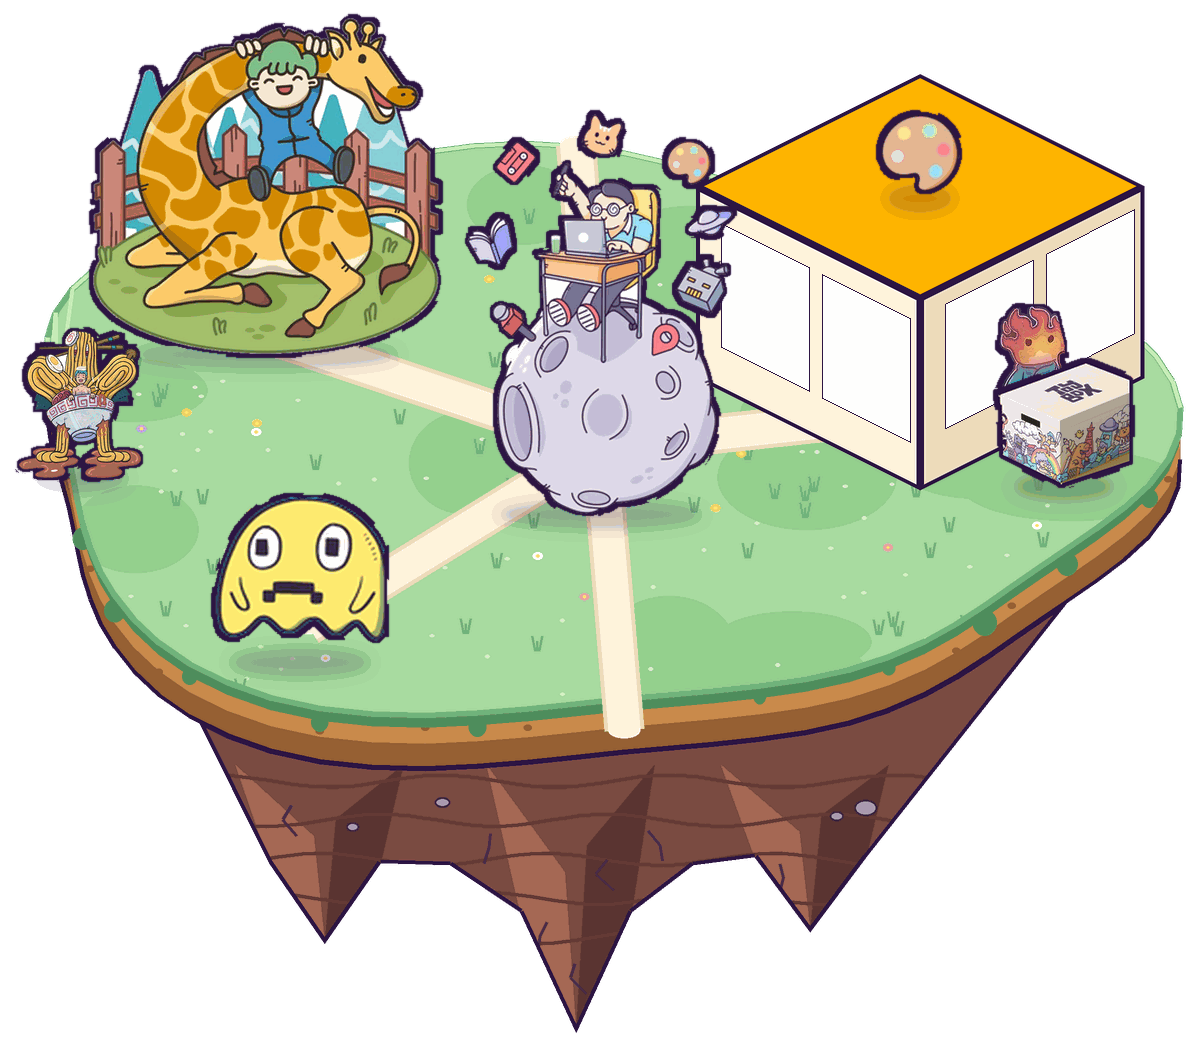
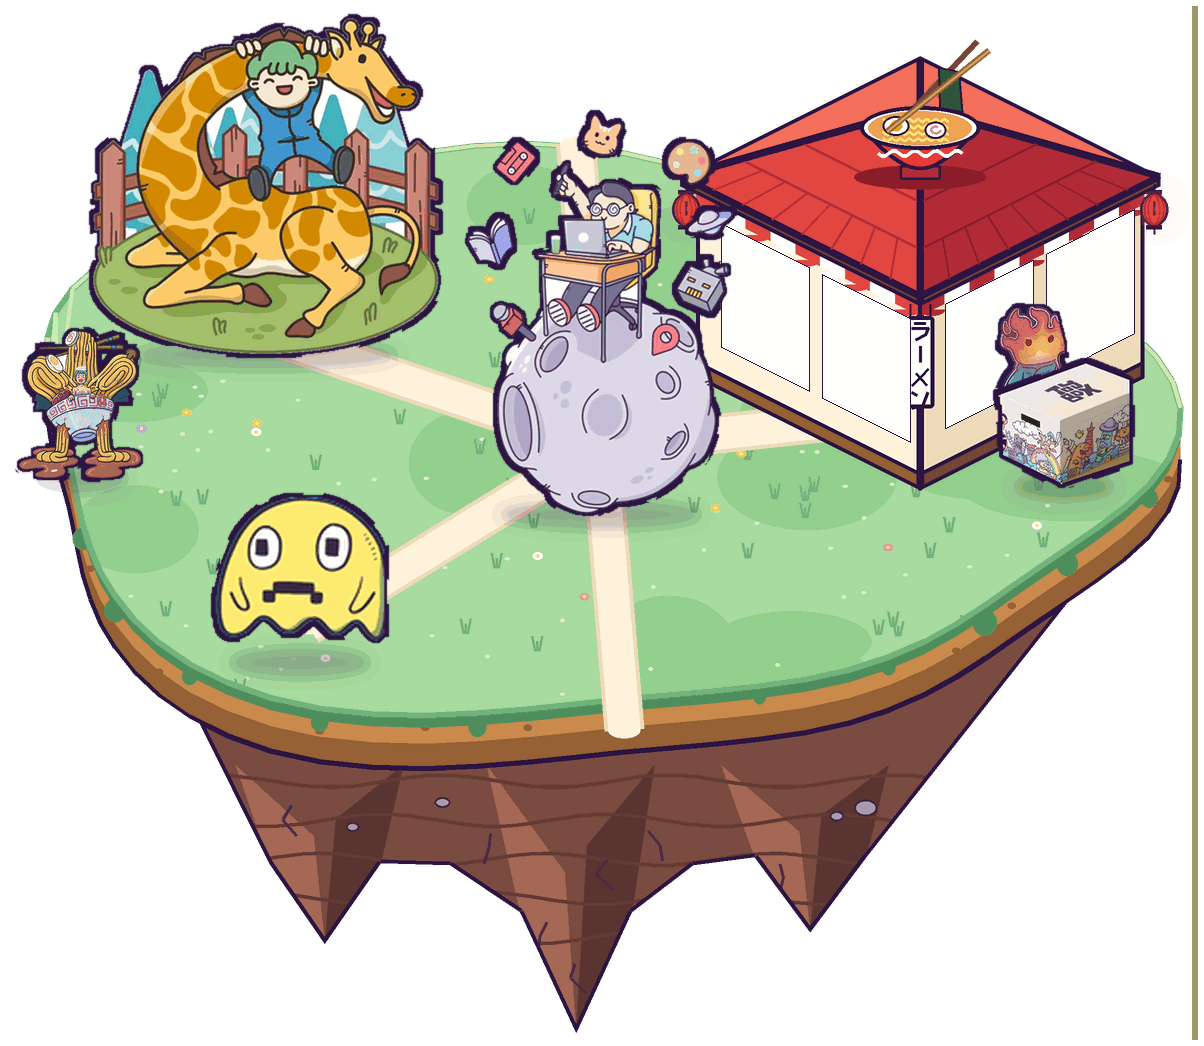
Map: the gallery block becomes Ekky's ramen shop (tiled roof, steaming bowl, awning, lanterns, ラーメン board); generator keeps the clear layer border
Claude-Session: https://claude.ai/code/session_01V9xssjYCJ36JvDWDtGAXJL

diff --git a/assets/village/village.js b/assets/village/village.js
@@ -1,2 +1,2 @@
 // Generated by scripts/village.py from village.json. Do not edit.
-window.VILLAGE={"w": 601, "h": 827, "layers": {"sky": {"src": "assets/village/nebula.png", "x": 0, "y": 0, "w": 601, "h": 827}, "stars": {"src": "assets/village/stars.svg", "x": 0, "y": 0, "w": 601, "h": 827}, "north": {"src": "assets/village/island-north.png", "x": 143, "y": 20, "w": 294, "h": 236}, "mid": {"src": "assets/village/island-mid.png", "x": 5, "y": 158, "w": 599, "h": 523}, "south": {"src": "assets/village/island-south.png", "x": 170, "y": 492, "w": 350, "h": 338}}, "frames": [{"wall": "left", "x": 368.7, "y": 272.8, "w": 38.1, "h": 56, "slope": 0.5}, {"wall": "left", "x": 419.1, "y": 298.0, "w": 38.1, "h": 56, "slope": 0.5}, {"wall": "right", "x": 480.7, "y": 313.2, "w": 38.1, "h": 56, "slope": -0.5}, {"wall": "right", "x": 531.1, "y": 288.0, "w": 38.1, "h": 56, "slope": -0.5}], "places": {"observatory": {"box": [223, 21, 319, 117], "label": [271.0, 129]}, "gallery": {"box": [353, 195, 578, 405], "label": [465, 411]}, "studio": {"box": [51, 167, 224, 335], "label": [137.5, 347]}, "home": {"box": [238, 215, 371, 415], "label": [304.5, 419]}, "doodle": {"box": [109, 397, 201, 489], "label": [155.0, 493]}, "hire": {"box": [264, 501, 401, 673], "label": [332.5, 677]}}, "folk": {"fire-spirit": {"piece": "rpg", "box": [504, 311, 537, 363]}, "noodle-bath": {"piece": "noodles", "box": [14, 323, 75, 397]}, "ufo": {"piece": "doodles", "box": [116, 35, 178, 91]}}, "walkers": [{"name": "car", "piece": "road-trip", "src": "assets/sprites/car.png", "h": 52, "face": -1, "aspect": 1.379, "route": [[233, 357], [159, 333]]}, {"name": "dog", "piece": "doodles", "src": "assets/sprites/dog.png", "h": 70, "face": -1, "aspect": 0.713, "route": [[251, 409], [195, 447]]}, {"name": "plug-hero", "piece": "plug-hero", "src": "assets/sprites/plug-hero.png", "h": 66, "face": -1, "aspect": 0.821, "route": [[365, 377], [433, 367]]}, {"name": "orange-monster", "piece": "doodles", "src": "assets/sprites/orange-monster.png", "h": 44, "face": 1, "aspect": 1.078, "route": [[293, 131], [293, 165], [293, 213]]}, {"name": "crab", "piece": "summertime", "src": "assets/sprites/crab.png", "h": 30, "face": 0, "aspect": 1.442, "route": [[225, 647], [261, 629]]}], "scenery": [], "lantern": [320.4, 617.1], "ufo": {"src": "assets/sprites/ufo.png", "box": [116, 35, 178, 91], "layer": "north"}, "smoke": [[44.5, 341]]};
+window.VILLAGE={"w": 601, "h": 827, "layers": {"sky": {"src": "assets/village/nebula.png", "x": 0, "y": 0, "w": 601, "h": 827}, "stars": {"src": "assets/village/stars.svg", "x": 0, "y": 0, "w": 601, "h": 827}, "north": {"src": "assets/village/island-north.png", "x": 143, "y": 20, "w": 294, "h": 236}, "mid": {"src": "assets/village/island-mid.png", "x": 5, "y": 158, "w": 602, "h": 523}, "south": {"src": "assets/village/island-south.png", "x": 170, "y": 492, "w": 350, "h": 338}}, "frames": [{"wall": "left", "x": 368.7, "y": 272.8, "w": 38.1, "h": 56, "slope": 0.5}, {"wall": "left", "x": 419.1, "y": 298.0, "w": 38.1, "h": 56, "slope": 0.5}, {"wall": "right", "x": 480.7, "y": 313.2, "w": 38.1, "h": 56, "slope": -0.5}, {"wall": "right", "x": 531.1, "y": 288.0, "w": 38.1, "h": 56, "slope": -0.5}], "places": {"observatory": {"box": [223, 21, 319, 117], "label": [271.0, 129]}, "gallery": {"box": [353, 195, 578, 405], "label": [465, 411]}, "studio": {"box": [51, 167, 224, 335], "label": [137.5, 347]}, "home": {"box": [238, 215, 371, 415], "label": [304.5, 419]}, "doodle": {"box": [109, 397, 201, 489], "label": [155.0, 493]}, "hire": {"box": [264, 501, 401, 673], "label": [332.5, 677]}}, "folk": {"fire-spirit": {"piece": "rpg", "box": [504, 311, 537, 363]}, "noodle-bath": {"piece": "noodles", "box": [14, 323, 75, 397]}, "ufo": {"piece": "doodles", "box": [116, 35, 178, 91]}}, "walkers": [{"name": "car", "piece": "road-trip", "src": "assets/sprites/car.png", "h": 52, "face": -1, "aspect": 1.379, "route": [[233, 357], [159, 333]]}, {"name": "dog", "piece": "doodles", "src": "assets/sprites/dog.png", "h": 70, "face": -1, "aspect": 0.713, "route": [[251, 409], [195, 447]]}, {"name": "plug-hero", "piece": "plug-hero", "src": "assets/sprites/plug-hero.png", "h": 66, "face": -1, "aspect": 0.821, "route": [[365, 377], [433, 367]]}, {"name": "orange-monster", "piece": "doodles", "src": "assets/sprites/orange-monster.png", "h": 44, "face": 1, "aspect": 1.078, "route": [[293, 131], [293, 165], [293, 213]]}, {"name": "crab", "piece": "summertime", "src": "assets/sprites/crab.png", "h": 30, "face": 0, "aspect": 1.442, "route": [[225, 647], [261, 629]]}], "scenery": [], "lantern": [320.4, 617.1], "ufo": {"src": "assets/sprites/ufo.png", "box": [116, 35, 178, 91], "layer": "north"}, "smoke": [[44.5, 341], [465, 208]]};

diff --git a/sw.js b/sw.js
@@ -1,6 +1,6 @@
 // Service worker for "Install the app" (B40, FEATURES.pwa). Network first, so a new build shows at once; what was
 // fetched before stays available offline. Same-origin GET requests only. Bump VERSION to drop old caches.
-const VERSION = "ekky-s6-5";
+const VERSION = "ekky-s6-6";
 self.addEventListener("install", e => self.skipWaiting());
 self.addEventListener("activate", e => e.waitUntil(caches.keys().then(keys =>
   Promise.all(keys.filter(k => k !== VERSION).map(k => caches.delete(k)))).then(() => self.clients.claim())));

diff --git a/scripts/village.py b/scripts/village.py
@@ -1,7 +1,7 @@
 """Ekky's Village, first frame (B42 V1): one pre-composited image plus the positions of every place and gallery frame.
 
 Usage: python3 scripts/village.py     writes assets/village/village.png, village.json and village.js
-The ground, sea, paths, plank bridges and the gallery block are plain shapes in Ekky's palette (plan asset rule 4);
+The ground, sea, paths, plank bridges and the gallery's ramen shop are plain shapes in Ekky's palette (plan asset rule 4);
 every character, building and prop is one of his cut-outs from assets/sprites/ (scripts/sprites.py), placed as is.
 The four gallery frames are left empty: js/village.js hangs featuredPick(4) real pieces in them on every visit.
 Coordinates are image pixels (720 x 880, shown at about half size on a phone); y grows downwards.
@@ -282,14 +282,114 @@ def bridge(d, a, b, n):
         d.polygon(P([(x - 13, y), (x, y - 6), (x + 13, y), (x, y + 6)]), fill=PLANK, outline=PLANK_EDGE, width=S)
 
 
-def block(d, cx, cy, hw, hh, height):
-    """The gallery: a plain block with a flat roof; returns the two front walls as (top-left, top-right, ...) corners."""
+RAMEN_RED, RAMEN_RED_D, RAMEN_RED_L = (226, 70, 64), (178, 44, 56), (244, 112, 92)
+WOOD, WOOD_D = (150, 96, 52), (110, 66, 40)
+LANTERN, LANTERN_D = (236, 58, 58), (176, 30, 46)
+
+
+def lerp(a, b, t):
+    return (a[0] + (b[0] - a[0]) * t, a[1] + (b[1] - a[1]) * t)
+
+
+def chochin(d, x, y, r=6):
+    """A red paper lantern hanging from (x, y): cord, ink caps, ribs and a white band (one stroke hints at a word)."""
+    d.line(P([(x, y), (x, y + 3)]), fill=INK, width=S)
+    top, h = y + 3, r * 2.6
+    d.rectangle(P([(x - r * .55, top), (x + r * .55, top + 2)]), fill=INK)
+    d.ellipse(P([(x - r, top + 1.5), (x + r, top + h)]), fill=LANTERN, outline=INK, width=S + 1)
+    for k in (.45, .75):
+        d.arc(P([(x - r * k, top + 2), (x + r * k, top + h - .5)]), 90, 270, fill=LANTERN_D, width=S)
+        d.arc(P([(x - r * k, top + 2), (x + r * k, top + h - .5)]), -90, 90, fill=LANTERN_D, width=S)
+    d.line(P([(x, top + h * .32), (x, top + h * .7)]), fill=INK, width=S + 1)
+    d.rectangle(P([(x - r * .55, top + h - .5), (x + r * .55, top + h + 1.5)]), fill=INK)
+    d.line(P([(x, top + h + 1.5), (x, top + h + 4)]), fill=INK, width=S)
+    return x, top + h / 2
+
+
+def katakana_sign(d, x, y, w, h):
+    """The shop's hanging board, "ラーメン" (ramen) written top to bottom in hand-drawn ink strokes."""
+    d.line(P([(x + 2, y - 6), (x + 2, y)]), fill=INK, width=S)
+    d.line(P([(x + w - 2, y - 6), (x + w - 2, y)]), fill=INK, width=S)
+    d.rounded_rectangle(P([(x, y), (x + w, y + h)]), radius=2 * S, fill=(255, 250, 240), outline=INK, width=2 * S)
+    c, g, u = x + w / 2, h / 4, w * .3    # one glyph per quarter, u = half a glyph's width
+    ln = lambda pts, k=1.6: d.line(P(pts), fill=INK, width=int(S * k), joint="curve")
+    t = y + 2                                                   # ラ
+    ln([(c - u * .7, t + 1.5), (c + u * .7, t + 1.5)])
+    ln([(c - u, t + 4), (c + u, t + 4), (c + u * .6, t + 7.5), (c - u * .5, t + g - 1.5)])
+    t += g                                                      # ー, drawn upright in vertical writing
+    ln([(c, t + 1.5), (c, t + g - 2)])
+    t += g                                                      # メ
+    ln([(c + u, t + 1.5), (c + u * .2, t + 5), (c - u, t + g - 1.5)])
+    ln([(c - u * .5, t + 3.5), (c + u * .8, t + g - 2)])
+    t += g                                                      # ン
+    ln([(c - u, t + 1.5), (c - u * .3, t + 3)])
+    ln([(c - u, t + g - 2), (c + u * .4, t + g - 3.5), (c + u, t + 1.5)])
+
+
+def ramen_bowl(d, cx, cy, rx):
+    """A big ramen bowl, the shop's rooftop sign: red bowl with a white wave, broth, noodles, egg, naruto, nori, chopsticks."""
+    ry = rx * .36
+    d.line(P([(cx - rx * .35, cy - ry * .2), (cx + rx * .95, cy - rx * 1.45)]), fill=WOOD_D, width=3 * S)   # the far chopstick
+    d.polygon(P([(cx + rx * .32, cy - ry * .9), (cx + rx * .72, cy - ry * .7), (cx + rx * .66, cy - rx * .95), (cx + rx * .3, cy - rx * 1.02)]),
+              fill=(46, 84, 60), outline=INK, width=S)                                                      # nori standing in the broth
+    d.ellipse(P([(cx - rx * 1.1, cy + rx * .62), (cx + rx * 1.1, cy + rx * 1.02)]), fill=(140, 30, 44))   # its shadow on the roof
+    d.rounded_rectangle(P([(cx - rx * .34, cy + rx * .62), (cx + rx * .34, cy + rx * .86)]), radius=S, fill=RAMEN_RED_D, outline=INK, width=S + 1)   # the foot
+    body = [(cx - rx + rx * 2 * k / 24, cy + math.sin(math.pi * k / 24) * rx * .7) for k in range(25)]
+    d.polygon(P(body), fill=LANTERN, outline=INK, width=2 * S)
+    wave = [(cx - rx * .7 + rx * 1.4 * k / 24, cy + rx * .42 + math.sin(k * math.pi / 3) * 1.4) for k in range(25)]
+    d.line(P(wave), fill=(255, 250, 240), width=2 * S, joint="curve")
+    d.ellipse(P([(cx - rx, cy - ry), (cx + rx, cy + ry)]), fill=(255, 250, 240), outline=INK, width=2 * S)
+    d.ellipse(P([(cx - rx * .86, cy - ry * .78), (cx + rx * .86, cy + ry * .8)]), fill=(240, 162, 82))
+    for j in range(4):                                                                                       # noodles
+        yy = cy - ry * .35 + j * ry * .3
+        d.line(P([(cx - rx * .62 + k * 2.2, yy + (1 if k % 2 else -1) * .8) for k in range(int(rx * .55))]), fill=(255, 226, 120), width=int(S * 1.4))
+    d.ellipse(P([(cx - rx * .62, cy - ry * .55), (cx - rx * .18, cy + ry * .35)]), fill=(255, 252, 244), outline=INK, width=S)   # half an egg
+    d.ellipse(P([(cx - rx * .5, cy - ry * .35), (cx - rx * .3, cy + ry * .15)]), fill=(255, 176, 40))
+    d.ellipse(P([(cx + rx * .08, cy - ry * .3), (cx + rx * .44, cy + ry * .5)]), fill=(255, 252, 244), outline=INK, width=S)     # naruto
+    d.arc(P([(cx + rx * .17, cy - ry * .1), (cx + rx * .35, cy + ry * .3)]), 0, 300, fill=(255, 128, 168), width=S + 1)
+    d.line(P([(cx - rx * .55, cy + ry * .15), (cx + rx * 1.15, cy - rx * 1.3)]), fill=WOOD, width=3 * S)   # the near chopstick
+    d.line(P([(cx - rx * .55, cy + ry * .15), (cx + rx * 1.15, cy - rx * 1.3)]), fill=(214, 160, 100), width=S)
+
+
+def ramen_shop(d, cx, cy, hw, hh, height):
+    """The gallery is Ekky's ramen shop: posters on the walls (the frames), a striped awning, a red tiled roof with
+    paper lanterns at the eaves, a "ラーメン" board on the front corner and a big bowl on top. Returns the two front walls as (left, bottom, right) corners, the lantern spots and the bowl's steam spot."""
     left, bottom, right = (cx - hw, cy), (cx, cy + hh), (cx + hw, cy)
-    up = lambda p: (p[0], p[1] - height)
-    d.polygon(P([left, bottom, up(bottom), up(left)]), fill=WALL_L, outline=INK, width=2 * S)
-    d.polygon(P([bottom, right, up(right), up(bottom)]), fill=WALL_R, outline=INK, width=2 * S)
-    d.polygon(P(diamond(cx, cy - height, hw, hh)), fill=ROOF, outline=INK, width=2 * S)
-    return left, bottom, right
+    up = lambda p, k=height: (p[0], p[1] - k)
+    for a, b, wall in ((left, bottom, WALL_L), (bottom, right, WALL_R)):
+        d.polygon(P([a, b, up(b), up(a)]), fill=wall, outline=INK, width=2 * S)
+        d.polygon(P([a, b, up(b, 9), up(a, 9)]), fill=WOOD if wall == WALL_L else WOOD_D, outline=INK, width=2 * S)   # wooden skirting
+        n = 9
+        for k in range(n):   # the striped awning along the top of the wall, with a scalloped hem
+            p0, p1 = lerp(a, b, k / n), lerp(a, b, (k + 1) / n)
+            col = (RAMEN_RED if wall == WALL_L else RAMEN_RED_D) if k % 2 == 0 else (255, 250, 240)
+            d.polygon(P([up(p0), up(p1), up(p1, height - 9), up(p0, height - 9)]), fill=col)
+            m = lerp(p0, p1, .5)
+            hr = (p1[0] - p0[0]) / 2
+            d.chord(P([(m[0] - hr, m[1] - height + 9 - 3), (m[0] + hr, m[1] - height + 9 + 3)]), 0, 180, fill=col)
+        d.line(P([up(a), up(b)]), fill=INK, width=2 * S)
+    d.line(P([bottom, up(bottom)]), fill=INK, width=2 * S)
+    # the roof: eaves over the walls, a dark wooden fascia, four tiled faces up to a small cap
+    ey, ew, eh, rise = cy - height - 5, hw + 8, hh + 4, 34
+    L, T, R, B = (cx - ew, ey), (cx, ey - eh), (cx + ew, ey), (cx, ey + eh)
+    A = (cx, ey - rise)
+    for p, q in ((L, B), (B, R)):
+        d.polygon(P([p, q, (q[0], q[1] + 5), (p[0], p[1] + 5)]), fill=WOOD_D, outline=INK, width=2 * S)
+    faces = ((L, T, RAMEN_RED_L), (T, R, RAMEN_RED_L), (L, B, RAMEN_RED), (B, R, RAMEN_RED_D))
+    for p, q, col in faces:
+        d.polygon(P([p, q, A]), fill=col, outline=INK, width=2 * S)
+    for p, q, col in faces[2:]:   # tile rows, parallel to the eave
+        for t in (.25, .5, .75):
+            d.line(P([lerp(p, A, t), lerp(q, A, t)]), fill=RAMEN_RED_D if col == RAMEN_RED else (140, 30, 44), width=S + 1)
+        for k in range(1, 8):
+            d.line(P([lerp(p, q, k / 8), lerp(lerp(p, q, k / 8), A, .25)]), fill=RAMEN_RED_D if col == RAMEN_RED else (140, 30, 44), width=S)
+    for p in (L, B, R):
+        d.line(P([p, A]), fill=INK, width=3 * S)
+    d.line(P([L, B, R]), fill=INK, width=2 * S)
+    lights = [chochin(d, L[0] + 3, L[1] + 4, 7), chochin(d, R[0] - 3, R[1] + 4, 7)]   # at the side corners: the frames' pictures cover the walls
+    katakana_sign(d, cx - 7, B[1] + 10, 14, 46)
+    ramen_bowl(d, cx, A[1] + 10, 30)
+    return (left, bottom, right), lights, (cx, A[1] - 4)
 
 
 def radial(im, cx, cy, rx, ry, rgb, a, k):
@@ -509,7 +609,7 @@ def build():
         path(dm, [home, to])
     path(dn, [(360, 268), (360, 225)])
     path(ds, [(396, 688), (400, 742)])
-    walls = block(dm, 532, 452, 112, 56, 96)
+    walls, shop_lights, bowl = ramen_shop(dm, 532, 452, 112, 56, 96)
     lamps = [lamp_post(ds, 282, 768), lamp_post(ds, 496, 774, 34)]   # the lantern posts' light is added below
     L = {}
     for name, im in (("sky", sky), ("mid", mid), ("north", north), ("south", south)):
@@ -534,7 +634,8 @@ def build():
     paste(L["north"], "radio-explorer", (404, 228), 70)
     paste(L["north"], "planet", (468, 204), 34, shadow=False)   # a small ringed planet at the island's edge
     places["gallery"] = [420, 300, 645, 510]
-    paste(L["mid"], "palette", (532, 362), 44)
+    for x, y in shop_lights:
+        radial(L["mid"], x, y, 22, 22, (255, 120, 80), .35, Z)   # the shop's lanterns glow
     folk["fire-spirit"] = paste(L["mid"], "fire-spirit", (588, 468), 52)   # peeks out behind the Toybox (its cut edge is hidden)
     paste(L["mid"], "toybox", (604, 506), 62)
     folk["noodle-bath"] = paste(L["mid"], "noodle-bath", (112, 502), 74)
@@ -591,7 +692,13 @@ def build():
     for name in ("north", "mid", "south"):
         x0, y0, x1, y1 = L[name].getchannel("A").point(lambda v: 255 if v else 0).getbbox()
         x0, y0, x1, y1 = x0 // Z - 6, y0 // Z - 6, -(-x1 // Z) + 6, -(-y1 // Z) + 6   # whole canvas units, with a clear margin so no shape ends in a straight line on the image border
-        Q[name].crop((x0 * Z, y0 * Z, x1 * Z, y1 * Z)).save(os.path.join(OUT, "island-%s.png" % name), optimize=True)
+        lay = Q[name].crop((x0 * Z, y0 * Z, x1 * Z, y1 * Z))
+        a = np.array(lay)
+        clear = int(a[0, 0]) if lay.convert("RGBA").getpixel((0, 0))[3] == 0 else int(np.argmin(np.array(lay.convert("RGBA")).reshape(-1, 4)[:, 3]))
+        a[:6], a[-6:], a[:, :6], a[:, -6:] = clear, clear, clear, clear   # a clear border: faint edge strips drew a pale line on the map
+        out_im = Image.fromarray(a, "P")
+        out_im.putpalette(lay.getpalette(rawmode="RGBA"), rawmode="RGBA")
+        out_im.save(os.path.join(OUT, "island-%s.png" % name), optimize=True)
         layers[name] = dict(src="assets/village/island-%s.png" % name, x=x0, y=y0, w=x1 - x0, h=y1 - y0)
     img = small
     folk["ufo"] = ubox
@@ -611,7 +718,7 @@ def build():
     out["lantern"] = [round(lx - ox, 1), round(ly - oy, 1)]
     out["ufo"] = dict(src="assets/sprites/ufo.png", box=[ubox[0] - ox, ubox[1] - oy, ubox[2] - ox, ubox[3] - oy], layer="north")
     nb = folk["noodle-bath"]
-    out["smoke"] = [[round((nb[0] + nb[2]) / 2 - ox, 1), round(nb[1] + 18 - oy, 1)]]
+    out["smoke"] = [[round((nb[0] + nb[2]) / 2 - ox, 1), round(nb[1] + 18 - oy, 1)], [round(bowl[0] - ox, 1), round(bowl[1] - oy, 1)]]   # the noodle bath, the ramen bowl
     # walkers (content): each walks its route along a path, pauses at the ends, and turns to face where it goes.
     # face = the way the drawing looks (-1 left, 1 right, 0 either); h = height in image pixels.
     for name, h, face, route in WALKERS:

diff --git a/docs/owner.md b/docs/owner.md
@@ -48,3 +48,4 @@ The integrator writes this file. Each entry has the time (UTC), the owner's exac
 | 10-28 09:4x | "in left of hire ekky, add web version" / "quick shortcut if its mobile" | Integrator | direct | A "Web" shortcut (globe) sits left of Hire Ekky on every mobile screen and opens the web site, in a mobile browser only (not in the Android app or an installed PWA, owner); it shrinks to the globe when space is short, and on the narrowest phones in Bahasa the start title gives way. The web site's Play button now shows on every touch screen (iPads too), so the way back is always there |
 | 10-28 09:5x | (iPad screenshot of the map) "when in ipad is this size make sense" | Integrator | direct | No: the village grows with the screen on tablets (715 px on an iPad, 850 on an iPad Pro, was capped at 520), labels scale up to 19 px, zoom keeps the frame; tapped tabs and chips no longer keep a focus ring (keyboard still gets it) |
 | 10-28 10:0x | "yes scale up the headers and buttons for ipad" / "and push it" | Integrator | direct | On tablets the header buttons grow by 30 %, the tab bar, titles, filters, Yours panels, start tiles and sheets by 25 % (CSS zoom on the chrome only; the village and the coloring canvas keep their own touch math) |
+| 10-28 10:2x | (map screenshot of the gallery box) "make this box an ramen shop" | Integrator | direct | The gallery block is now Ekky's ramen shop (drawn in scripts/village.py): red tiled roof with a big steaming ramen bowl on top, striped awning, wooden skirting, red paper lanterns at the eaves and a "ラーメン" board on the front corner. The four art frames stay on its walls as posters, the place still opens the Gallery under the same label. The generator now clears each layer's 6 px border itself, so the edge-line fix survives a rebuild |
